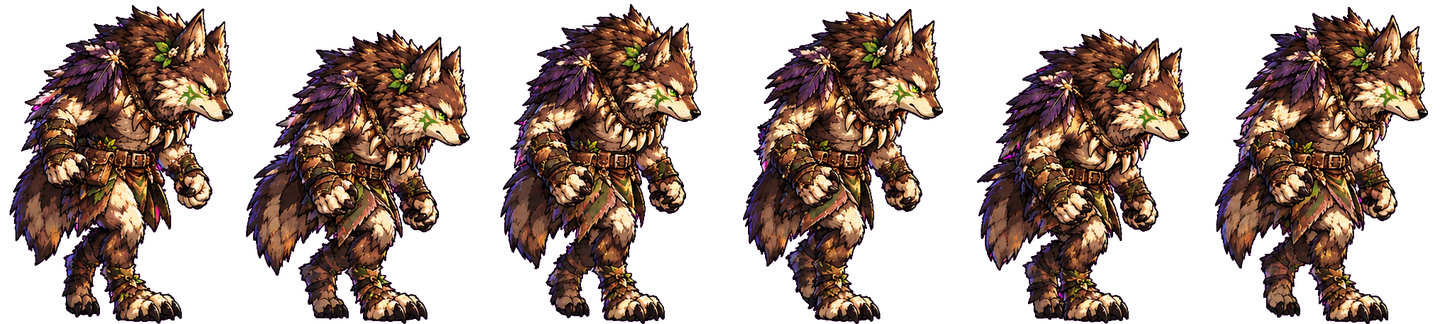
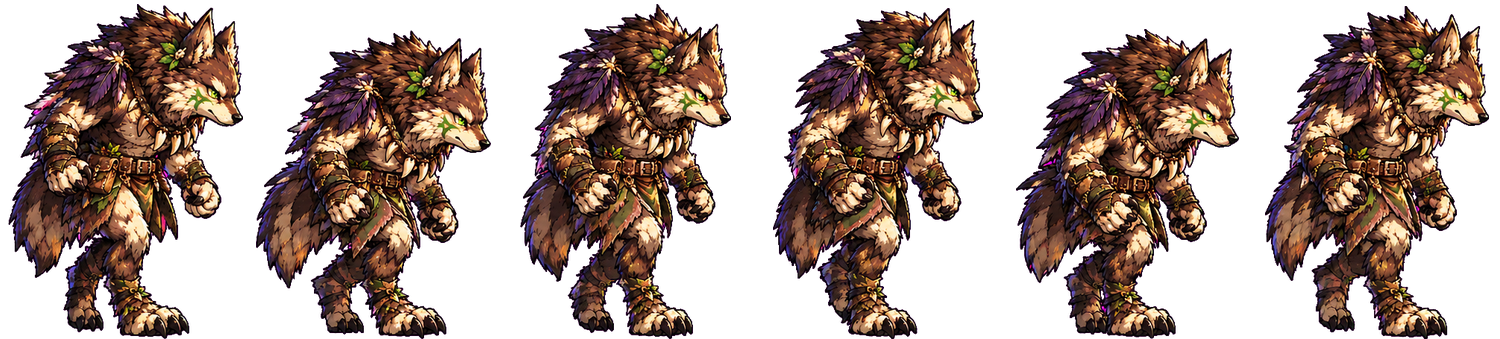
v0.2.0.0080: 곰·늑대인간 걷기/공격 그림 몸집 재조정 (수치 변경 없음)
Claude-Session: https://claude.ai/code/session_01XgMamwA2MFesNFKDoCmsPA

diff --git a/index.html b/index.html
@@ -423,7 +423,7 @@ body.hud-norank #dmgRank,body.hud-nocombo #combo,body.hud-nolvpen #lvPen{display
   </div>
 
   <section class="screen" id="sTitle">
-    <div class="ver" id="verT">v0.2.0.0079</div>
+    <div class="ver" id="verT">v0.2.0.0080</div>
     <button class="gearT" id="bSet" aria-label="설정">⚙</button>
     <div class="eyebrow">DARK GUARDIAN</div>
     <h1>어둠의 수호자</h1>
